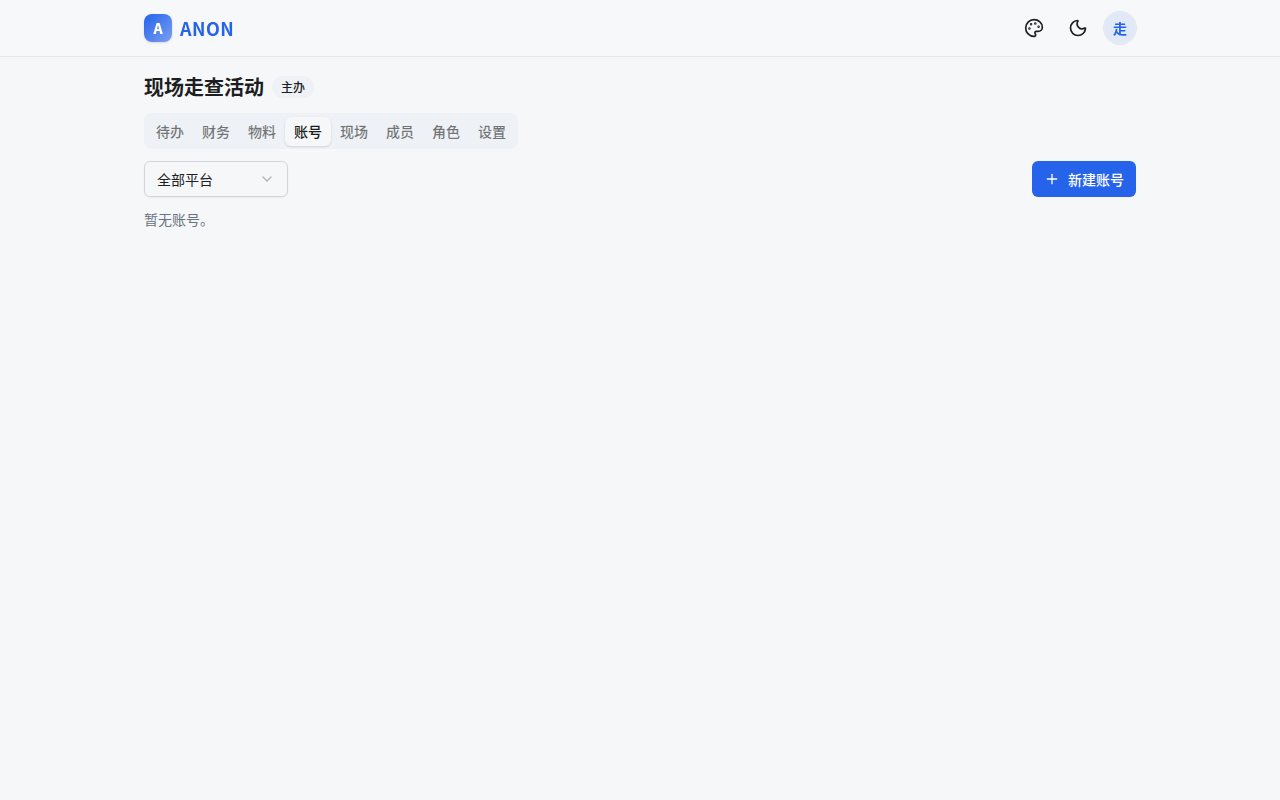
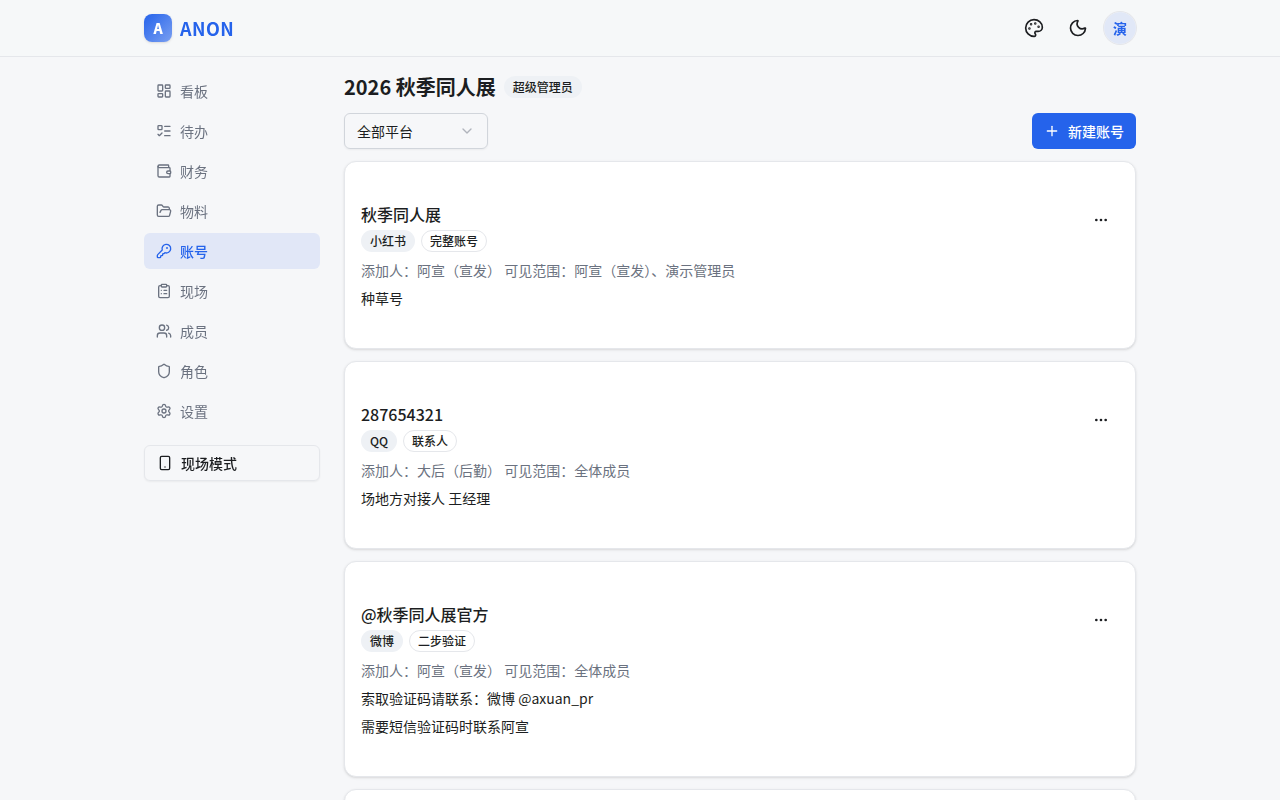
feat: 导航菜单布局优化 — 桌面左侧边栏、移动固定底栏+更多Sheet现场入口、Tab状态写URL、看板现场模式按钮、移动端主题控件入头像菜单、引导移动端过滤主题步骤

diff --git a/frontend/src/pages/ProjectHome.tsx b/frontend/src/pages/ProjectHome.tsx
@@ -1,5 +1,5 @@
 import { useCallback, useEffect, useState } from 'react';
-import { useNavigate, useParams } from 'react-router-dom';
+import { useNavigate, useParams, useSearchParams } from 'react-router-dom';
 import {
   ClipboardList,
   FolderOpen,
@@ -29,7 +29,6 @@ import { Button } from '@/components/ui/button';
 import { Card } from '@/components/ui/card';
 import { Sheet, SheetContent, SheetHeader, SheetTitle } from '@/components/ui/sheet';
 import { Skeleton } from '@/components/ui/skeleton';
-import { Tabs, TabsList, TabsTrigger } from '@/components/ui/tabs';
 
 interface Detail {
   project: ProjectDetail;
@@ -50,6 +49,8 @@ const TABS = [
   { key: 'settings', label: '设置', icon: Settings, visible: (p: string[]) => p.includes('project:manage') },
 ] as const;
 
+const MOBILE_MAIN_KEYS = ['todos', 'finance', 'materials'] as const;
+
 function hasAny(p: string[], keys: string[]) {
   return keys.some((k) => p.includes(k));
 }
@@ -58,13 +59,21 @@ export default function ProjectHome() {
   const { id } = useParams<{ id: string }>();
   const nav = useNavigate();
   const [detail, setDetail] = useState<Detail | null>(null);
-  const [tab, setTab] = useState<(typeof TABS)[number]['key']>('dashboard');
+  const [searchParams, setSearchParams] = useSearchParams();
+  const tabParam = searchParams.get('tab');
+  const setTab = useCallback(
+    (key: (typeof TABS)[number]['key']) => setSearchParams({ tab: key }),
+    [setSearchParams],
+  );
   const [err, setErr] = useState('');
   const [moreOpen, setMoreOpen] = useState(false);
 
-  const handleNavigate = useCallback((targetTab: string) => {
-    setTab(targetTab as (typeof TABS)[number]['key']);
-  }, []);
+  const handleNavigate = useCallback(
+    (targetTab: string) => {
+      setTab(targetTab as (typeof TABS)[number]['key']);
+    },
+    [setTab],
+  );
 
   const load = useCallback(async () => {
     const d = await api<Detail>(`/api/projects/${id}`);
@@ -92,27 +101,37 @@ export default function ProjectHome() {
 
   // 按权限过滤可见 tab；当前 tab 不可见时渲染期回退到第一个可见 tab（免 useEffect）
   const visibleTabs = TABS.filter((t) => t.visible(detail.myPermissions));
-  const mainTabs = visibleTabs.slice(0, 4);
-  const moreTabs = visibleTabs.slice(4);
-  const activeTab = visibleTabs.some((t) => t.key === tab) ? tab : (visibleTabs[0]?.key ?? 'todos');
+  const mainTabs = visibleTabs.filter((t) => (MOBILE_MAIN_KEYS as readonly string[]).includes(t.key));
+  const moreTabs = visibleTabs.filter((t) => !(MOBILE_MAIN_KEYS as readonly string[]).includes(t.key));
+  const activeTab = visibleTabs.some((t) => t.key === tabParam)
+    ? (tabParam as (typeof TABS)[number]['key'])
+    : (visibleTabs[0]?.key ?? 'todos');
 
   return (
-    <div className="pb-20 md:pb-0">
+    <div className="pb-20 md:flex md:gap-6 md:pb-0">
+      <aside className="hidden md:block md:w-44 md:shrink-0">
+        <div className="sticky top-18 space-y-1">
+          {visibleTabs.map((t) => (
+            <button
+              key={t.key}
+              onClick={() => setTab(t.key)}
+              className={`flex w-full items-center gap-2 rounded-md px-3 py-2 text-sm ${activeTab === t.key ? 'bg-primary/10 font-medium text-primary' : 'text-muted-foreground hover:bg-muted hover:text-foreground'}`}
+            >
+              <t.icon className="size-4" />
+              {t.label}
+            </button>
+          ))}
+          <Button variant="outline" className="mt-3 w-full justify-start" onClick={() => nav(`/p/${id}/onsite`)}>
+            <Smartphone className="size-4" /> 现场模式
+          </Button>
+        </div>
+      </aside>
+
+      <div className="min-w-0 flex-1">
       <div className="mb-3 flex items-center gap-2">
         <h2 className="text-xl font-semibold">{detail.project.name}</h2>
         <Badge variant="secondary">{detail.myRole}</Badge>
       </div>
-
-      {/* 桌面端顶部标签 */}
-      <Tabs value={activeTab} onValueChange={(v) => setTab(v as typeof tab)} className="hidden md:block">
-        <TabsList>
-          {visibleTabs.map((t) => (
-            <TabsTrigger key={t.key} value={t.key}>
-              {t.label}
-            </TabsTrigger>
-          ))}
-        </TabsList>
-      </Tabs>
 
       {/* Tab 内容 */}
       <div className="mt-3">
@@ -137,14 +156,7 @@ export default function ProjectHome() {
           <AccountsTab project={detail.project} members={detail.members} myPermissions={detail.myPermissions} />
         )}
         {activeTab === 'work' && (
-          <div className="space-y-3">
-            <div className="flex justify-end">
-              <Button variant="outline" onClick={() => nav(`/p/${id}/onsite`)}>
-                <Smartphone className="size-4" /> 现场模式
-              </Button>
-            </div>
-            <WorkTab project={detail.project} members={detail.members} myPermissions={detail.myPermissions} />
-          </div>
+          <WorkTab project={detail.project} members={detail.members} myPermissions={detail.myPermissions} />
         )}
         {activeTab === 'members' && (
           <MembersTab
@@ -161,9 +173,10 @@ export default function ProjectHome() {
           <SettingsTab project={detail.project} myPermissions={detail.myPermissions} onChanged={load} />
         )}
       </div>
+      </div>
 
       {/* 移动端底部导航 */}
-      <nav className="fixed inset-x-0 bottom-0 z-40 border-t bg-background/95 backdrop-blur md:hidden">
+      <nav className="fixed inset-x-0 bottom-0 z-40 border-t bg-background/95 pb-[env(safe-area-inset-bottom)] backdrop-blur md:hidden">
         <div
           className="grid"
           style={{ gridTemplateColumns: `repeat(${mainTabs.length + (moreTabs.length > 0 ? 1 : 0)}, minmax(0, 1fr))` }}
@@ -196,6 +209,16 @@ export default function ProjectHome() {
             <SheetTitle>更多</SheetTitle>
           </SheetHeader>
           <div className="grid gap-2 p-4">
+            <Button
+              variant="outline"
+              className="justify-start"
+              onClick={() => {
+                setMoreOpen(false);
+                nav(`/p/${id}/onsite`);
+              }}
+            >
+              <Smartphone className="size-4" /> 现场模式
+            </Button>
             {moreTabs.map((t) => (
               <Button
                 key={t.key}

diff --git a/frontend/src/components/Layout.tsx b/frontend/src/components/Layout.tsx
@@ -1,5 +1,5 @@
 import { useState } from 'react';
-import { BookOpen, LogOut, ShieldCheck, Sparkles, UserRound } from 'lucide-react';
+import { BookOpen, LogOut, Moon, Palette, ShieldCheck, Sparkles, Sun, UserRound } from 'lucide-react';
 import { Link, Outlet, useNavigate } from 'react-router-dom';
 import { useAuth } from '../auth';
 import Logo from './Logo';
@@ -8,7 +8,7 @@ import PushBanner from './PushBanner';
 import TrialBanner from './TrialBanner';
 import { OnboardingDialog } from './onboarding/OnboardingDialog';
 import { startTour } from './onboarding/tour';
-import { ModeToggle, StylePicker } from '../theme';
+import { ModeToggle, StylePicker, useTheme } from '../theme';
 import { Avatar, AvatarFallback } from '@/components/ui/avatar';
 import {
   DropdownMenu,
@@ -21,6 +21,7 @@ import {
 export default function Layout() {
   const { user, logout } = useAuth();
   const nav = useNavigate();
+  const { mode, style, toggleMode, setStyle } = useTheme();
   const [replayOpen, setReplayOpen] = useState(false);
   return (
     <div className="min-h-screen bg-background">
@@ -30,7 +31,7 @@ export default function Layout() {
             <Logo />
           </Link>
           <span className="flex-1" />
-          <div className="flex items-center gap-2" data-tour="theme-controls">
+          <div className="hidden items-center gap-2 md:flex" data-tour="theme-controls">
             <StylePicker />
             <ModeToggle />
           </div>
@@ -45,6 +46,14 @@ export default function Layout() {
               </button>
             </DropdownMenuTrigger>
             <DropdownMenuContent align="end">
+              <DropdownMenuItem className="md:hidden" onClick={() => setStyle(style === 'minimal' ? 'playful' : 'minimal')}>
+                <Palette className="size-4" /> 界面风格：{style === 'minimal' ? '简洁' : '明快'}
+              </DropdownMenuItem>
+              <DropdownMenuItem className="md:hidden" onClick={toggleMode}>
+                {mode === 'dark' ? <Sun className="size-4" /> : <Moon className="size-4" />}
+                {mode === 'dark' ? '切换到日间模式' : '切换到夜间模式'}
+              </DropdownMenuItem>
+              <DropdownMenuSeparator className="md:hidden" />
               <DropdownMenuItem onClick={() => nav('/me')}>
                 <UserRound className="size-4" /> 个人资料
               </DropdownMenuItem>

diff --git a/frontend/src/components/project/DashboardTab.tsx b/frontend/src/components/project/DashboardTab.tsx
@@ -20,8 +20,10 @@ import {
   RotateCcw,
   Settings2,
   ShieldOff,
+  Smartphone,
   Wallet,
 } from 'lucide-react';
+import { useNavigate } from 'react-router-dom';
 import { toast } from 'sonner';
 import { api } from '../../api/client';
 import { eventCountdown, fmtLocal } from '../../lib/datetime';
@@ -98,6 +100,7 @@ function mergeCardOrder(saved: string[]): string[] {
 
 export default function DashboardTab({ project, members, myPermissions, onNavigate }: Props) {
   const [data, setData] = useState<DashboardData | null>(null);
+  const nav = useNavigate();
   const [err, setErr] = useState('');
   const [ignoredRisks, setIgnoredRisks] = useState<RiskItem[]>([]);
 
@@ -370,6 +373,9 @@ export default function DashboardTab({ project, members, myPermissions, onNaviga
         </div>
         <Button variant="outline" size="icon" onClick={() => setCustomizeOpen(true)} aria-label="自定义看板" title="自定义看板">
           <Settings2 className="size-4" />
+        </Button>
+        <Button variant="outline" onClick={() => nav(`/p/${project.id}/onsite`)}>
+          <Smartphone className="size-4" /> 现场模式
         </Button>
       </div>
 

diff --git a/frontend/src/components/help/content.ts b/frontend/src/components/help/content.ts
@@ -277,7 +277,7 @@ export const HELP_CHAPTERS: HelpChapter[] = [
       {
         heading: '现场模式',
         paragraphs: [
-          '「现场」Tab 右上角「现场模式」进入极简大字号页面：紧急公告置顶，当前任务一键签到、完成，断网也能先存本机、联网后自动同步。',
+          '三处入口直达「现场模式」极简大字号页面：桌面侧边栏底部的「现场模式」按钮、看板视图切换行的「现场模式」按钮、移动端「更多」弹窗顶部入口。紧急公告置顶，当前任务一键签到、完成，断网也能先存本机、联网后自动同步。',
           '异常上报支持设备故障、人员缺席、物料缺失等六个分类；现场管理者可查看全部上报并标记解决。',
           '联系人卡片显示成员公开的电话，点击直接拨号。',
         ],

diff --git a/frontend/src/components/onboarding/tour.ts b/frontend/src/components/onboarding/tour.ts
@@ -12,7 +12,7 @@ export function startTour(onDone: () => void) {
       { element: '[data-tour=new-project]', popover: { title: '从这里开始', description: '创建你的第一个项目（一场活动），你就是主办。' } },
       { element: '[data-tour=theme-controls]', popover: { title: '主题随心换', description: '调色板切换「简洁/明快」两种风格，月亮切换日/夜模式。' } },
       { element: '[data-tour=user-menu]', popover: { title: '你的账号中心', description: '个人资料、帮助文档、重看引导都在这里——每个功能都有图文手册和真实截图。' } },
-    ],
+    ].filter((s) => window.matchMedia('(min-width: 768px)').matches || s.element !== '[data-tour=theme-controls]'),
   });
   d.drive();
 }

diff --git a/docs/features.md b/docs/features.md
@@ -427,7 +427,7 @@ ANON 是一个面向活动（展会、同人活动、演出等）组织团队的
 
 ### 现场模式（/p/:id/onsite）
 
-「现场」Tab 右上角「现场模式」进入极简大字号页面，为活动现场低网、快操作设计：
+三处入口直达极简大字号页面（为活动现场低网、快操作设计）：桌面侧边栏底部「现场模式」按钮、看板视图切换行的「现场模式」按钮、移动端「更多」Sheet 顶部入口。页面特性：
 
 - **紧急公告置顶**：emergency（红）/ important（橙）公告始终显示在最上方
 - **当前任务大卡**：显示模块名、地点、时间，一键**签到**（记录到岗时间）→ **完成任务**（未签到时自动补签到）；管理者可代成员操作
@@ -448,7 +448,7 @@ ANON 是一个面向活动（展会、同人活动、演出等）组织团队的
 ### 首次引导
 
 - 新用户注册登录后首次进入「项目」页，自动弹出**欢迎幻灯**（3 张：产品概念、四步上手、文档中心指引），可逐张「下一步」浏览，也可随时「跳过」
-- 看完幻灯点「开始导览」，进入**界面导览**（driver.js 高亮）：依次指向「新建项目」按钮、主题切换、用户菜单，点「完成」结束
+- 看完幻灯点「开始导览」，进入**界面导览**（driver.js 高亮）：依次指向「新建项目」按钮、主题切换、用户菜单，点「完成」结束；移动端（<768px）主题控件收进头像菜单，导览自动跳过主题步骤（仅「新建项目」与「用户菜单」两步）
 - 「跳过」或「完成」都会调用 `POST /api/me/onboarded` 把完成状态写到账号上（`onboardedAt`）——**按账号记录，跨设备生效**，之后登录任何设备都不会再自动弹出
 
 ### 重看引导
@@ -467,10 +467,14 @@ ANON 是一个面向活动（展会、同人活动、演出等）组织团队的
 ## 界面与体验
 
 - **移动端优先**：所有页面单列卡片布局，手机上单手可操作；≥768px 宽屏自动分栏
-- **日/夜主题**：右上角 ☾/☀ 按钮切换，选择记忆在本地，下次打开无闪烁
+- **日/夜主题**：桌面右上角 ☾/☀ 按钮切换（记忆在本地，下次打开无闪烁）；移动端主题控件收进头像菜单（「界面风格」+「日/夜切换」）
+- **项目内导航**：
+  - 桌面（≥768px）：左侧竖向侧边栏（图标+文字，sticky 不随滚动），底部固定「现场模式」入口
+  - 移动端：底部固定栏 = 待办 / 财务 / 物料 +「更多」（固定集合，按权限过滤——无财务权限时为待办 / 物料 + 更多）；「更多」Sheet 顶部为「现场模式」入口，其余 Tab 按定义顺序排列；底栏适配 iOS 安全区
+  - 当前 Tab 写入 URL `?tab=xxx`：刷新保留、可分享、浏览器前进/后退在 Tab 间移动；非法值回退看板
 - **页面结构**：
   - `/projects` 项目列表与新建
-  - `/p/:id` 项目工作台：看板 / 待办 / 财务 / 物料 / 账号 / 现场 / 成员 / 角色 / 设置 九个 Tab（**按项目内权限点过滤可见性**：「角色」需 role:manage 及以上、「设置」需 project:manage、「财务」需 finance:add/manage 其一，无权限的 Tab 与操作按钮不渲染；看板对所有成员可见）
+  - `/p/:id` 项目工作台：看板 / 待办 / 财务 / 物料 / 账号 / 现场 / 成员 / 角色 / 设置 九个 Tab（**按项目内权限点过滤可见性**：「角色」需 role:manage 及以上、「设置」需 project:manage、「财务」需 finance:add/manage 其一，无权限的 Tab 与操作按钮不渲染；看板对所有成员可见）；支持 `?tab=` 参数直达指定 Tab
   - `/p/:id/work-sheet/print` 现场任务单打印版式页（`?user=me|<userId>|all`）
   - `/me` 个人资料；`/admin` 超管邀请码管理；`/invite/:token` 邀请接受页；`/help` 帮助文档中心
 

diff --git a/README.md b/README.md
@@ -69,7 +69,7 @@
 
 ### 更多体验
 
-试用模式（`admin@test.com` + 任意 ≥8 位密码即建独立演示环境，24h 自动销毁，全站「试用」横幅标识）、纯前端演示站（`npm run build:demo` 一键构建 Cloudflare Pages 预览站，浏览器内 mock 数据、访客免登录、修改会话内保留）、双风格主题（简洁/明快 × 日/夜）、新手引导（欢迎幻灯 + 界面导览）、内置图文帮助文档（/help）、移动端优先布局。
+试用模式（`admin@test.com` + 任意 ≥8 位密码即建独立演示环境，24h 自动销毁，全站「试用」横幅标识）、纯前端演示站（`npm run build:demo` 一键构建 Cloudflare Pages 预览站，浏览器内 mock 数据、访客免登录、修改会话内保留）、双风格主题（简洁/明快 × 日/夜）、新手引导（欢迎幻灯 + 界面导览）、内置图文帮助文档（/help）、移动端优先布局（项目内桌面左侧边栏 / 移动端底部固定栏 + 更多弹窗，Tab 状态写入 URL 可分享、可前进后退）。
 
 ## 技术栈
 
